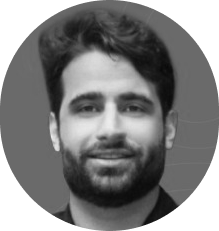
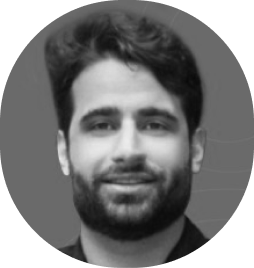
adds CTO section in our team

diff --git a/components/Common/OurTeam.js b/components/Common/OurTeam.js
@@ -1,11 +1,12 @@
 import React, { Component } from 'react';
-import Link from 'next/link';
 import Image from 'next/image';
 import eduImage from '../../images/eduPhoto.png';
 import rodrigoImage from '../../images/rodrigoPhoto.png';
+import luizImage from '../../images/luizPhoto.png';
 import azimutImage from '../../images/azimutPhoto.png';
 import playDeliveryImage from '../../images/playDeliveryPhoto.png';
-import crescendoImage from '../../images/crescendoLogo.png';
+import cognitivaPhoto from '../../images/cognitivaPhoto.png';
+import starLearningPhoto from '../../images/starLearningPhoto.png';
 
 class OurTeam extends Component {
     render() {
@@ -17,13 +18,14 @@ class OurTeam extends Component {
                             <br />
                             <br />
                             <br />
-                            <h2 className='text-color-white'>Sobre os Founders</h2>
+                            <h2 className='text-color-white'>Sobre os C-Levels</h2>
                         </div>
                         <div className='flex-about-us'>
-                            <div className="col-lg-6 col-md-12">
+                            <div className="col-lg-3 col-md-12">
                                 <div className='sobre-nos'>
                                     <br />
                                     <Image src={eduImage} alt="Foto do fundador Eduardo Kautz" className='founder-image-padding' />
+                                    <br />
                                     <h1 className='text-color-white text-margin-top'>EDU KAUTZ</h1>
                                     <br />
                                     <h2 className='text-color-white'>Founder & CEO</h2>
@@ -32,16 +34,27 @@ class OurTeam extends Component {
                                     <Image src={playDeliveryImage} alt="Logo da PlayDelivery" />
                                 </div>
                             </div>
-                            <div className="col-lg-6 col-md-12">
+                            <div className="col-lg-3 col-md-12">
                                 <div className='sobre-nos'>
                                     <br />
                                     <Image src={rodrigoImage} alt="Foto do co-fundador Rodrigo Villa" />
-                                    <h1 className='text-color-white text-margin-top' >RODRIGO VILLA REAL</h1>
+                                    <h1 className='text-color-white text-margin-top' >RODRIGO VILLA</h1>
                                     <br />
                                     <h2 className='text-color-white'>Co-Founder & CFO</h2>
                                     <br />
                                     <p className='text-color-white'>Oito anos de experiência no mercado financeiro, com passagem pelo Banco Renner, Azimut Wealth Management e Crescendo Group. Especialista em Wealth Management. Relaciona-se e investe no ecossistema de startups há três anos.</p>
                                     <Image src={azimutImage} alt="Logo da Azimut" />
+                                </div>
+                            </div>
+                            <div className="col-lg-3 col-md-12">
+                                <div className='sobre-nos'>
+                                    <Image src={luizImage} alt="Foto do co-fundador Rodrigo Villa" />
+                                    <h1 className='text-color-white text-margin-top' >LUIZ ROSSI</h1>
+                                    <br />
+                                    <h2 className='text-color-white'>CTO</h2>
+                                    <br />
+                                    <p className='text-color-white'>Doutor em Computação pela UFRGS, CEO da Cognitiva Brasil (vencedora do SEBRAE-RS Digital 2019, finalista do Finep Startup 2018), CTO da StarLearning (4ª colocada no BRDE Labs 2020).</p>
+                                    <Image src={cognitivaPhoto} alt="Logo da Azimut" />
                                 </div>
                             </div>
                         </div>
